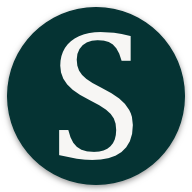
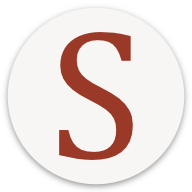
Publish

diff --git a/site/2014/08/new-homepage/index.html b/site/2014/08/new-homepage/index.html
@@ -16,13 +16,12 @@
   <link rel="stylesheet" href="http://olli.saarikivi.fi//css/content.css">
   <link rel="stylesheet" href="http://olli.saarikivi.fi//css/syntax.css">
 
-
   <link rel="apple-touch-icon" sizes="180x180" href="http://olli.saarikivi.fi/apple-touch-icon.png">
   <link rel="icon" type="image/png" href="http://olli.saarikivi.fi/favicon-32x32.png" sizes="32x32">
   <link rel="icon" type="image/png" href="http://olli.saarikivi.fi/favicon-16x16.png" sizes="16x16">
   <link rel="manifest" href="http://olli.saarikivi.fi/manifest.json">
-  <link rel="mask-icon" href="http://olli.saarikivi.fi/safari-pinned-tab.svg" color="#053333">
-  <meta name="theme-color" content="#f7f6f4">
+  <link rel="mask-icon" href="http://olli.saarikivi.fi/safari-pinned-tab.svg" color="#9b3928">
+  <meta name="theme-color" content="#9b3928">
 
   <link href="http://olli.saarikivi.fi/collections/posts/index.xml" rel="alternate" type="application/rss+xml" title="Olli Saarikivi" />
 </head>

diff --git a/site/404.html b/site/404.html
@@ -16,13 +16,12 @@
   <link rel="stylesheet" href="http://olli.saarikivi.fi//css/content.css">
   <link rel="stylesheet" href="http://olli.saarikivi.fi//css/syntax.css">
 
-
   <link rel="apple-touch-icon" sizes="180x180" href="http://olli.saarikivi.fi/apple-touch-icon.png">
   <link rel="icon" type="image/png" href="http://olli.saarikivi.fi/favicon-32x32.png" sizes="32x32">
   <link rel="icon" type="image/png" href="http://olli.saarikivi.fi/favicon-16x16.png" sizes="16x16">
   <link rel="manifest" href="http://olli.saarikivi.fi/manifest.json">
-  <link rel="mask-icon" href="http://olli.saarikivi.fi/safari-pinned-tab.svg" color="#053333">
-  <meta name="theme-color" content="#f7f6f4">
+  <link rel="mask-icon" href="http://olli.saarikivi.fi/safari-pinned-tab.svg" color="#9b3928">
+  <meta name="theme-color" content="#9b3928">
 
   <link href="http://olli.saarikivi.fi/collections/posts/index.xml" rel="alternate" type="application/rss+xml" title="Olli Saarikivi" />
 </head>

diff --git a/site/collections/frontpage/index.html b/site/collections/frontpage/index.html
@@ -16,13 +16,12 @@
   <link rel="stylesheet" href="http://olli.saarikivi.fi//css/content.css">
   <link rel="stylesheet" href="http://olli.saarikivi.fi//css/syntax.css">
 
-
   <link rel="apple-touch-icon" sizes="180x180" href="http://olli.saarikivi.fi/apple-touch-icon.png">
   <link rel="icon" type="image/png" href="http://olli.saarikivi.fi/favicon-32x32.png" sizes="32x32">
   <link rel="icon" type="image/png" href="http://olli.saarikivi.fi/favicon-16x16.png" sizes="16x16">
   <link rel="manifest" href="http://olli.saarikivi.fi/manifest.json">
-  <link rel="mask-icon" href="http://olli.saarikivi.fi/safari-pinned-tab.svg" color="#053333">
-  <meta name="theme-color" content="#f7f6f4">
+  <link rel="mask-icon" href="http://olli.saarikivi.fi/safari-pinned-tab.svg" color="#9b3928">
+  <meta name="theme-color" content="#9b3928">
 
   <link href="http://olli.saarikivi.fi/collections/posts/index.xml" rel="alternate" type="application/rss+xml" title="Olli Saarikivi" />
 </head>

diff --git a/site/collections/news/index.html b/site/collections/news/index.html
@@ -16,13 +16,12 @@
   <link rel="stylesheet" href="http://olli.saarikivi.fi//css/content.css">
   <link rel="stylesheet" href="http://olli.saarikivi.fi//css/syntax.css">
 
-
   <link rel="apple-touch-icon" sizes="180x180" href="http://olli.saarikivi.fi/apple-touch-icon.png">
   <link rel="icon" type="image/png" href="http://olli.saarikivi.fi/favicon-32x32.png" sizes="32x32">
   <link rel="icon" type="image/png" href="http://olli.saarikivi.fi/favicon-16x16.png" sizes="16x16">
   <link rel="manifest" href="http://olli.saarikivi.fi/manifest.json">
-  <link rel="mask-icon" href="http://olli.saarikivi.fi/safari-pinned-tab.svg" color="#053333">
-  <meta name="theme-color" content="#f7f6f4">
+  <link rel="mask-icon" href="http://olli.saarikivi.fi/safari-pinned-tab.svg" color="#9b3928">
+  <meta name="theme-color" content="#9b3928">
 
   <link href="http://olli.saarikivi.fi/collections/posts/index.xml" rel="alternate" type="application/rss+xml" title="Olli Saarikivi" />
 </head>

diff --git a/site/collections/posts/index.html b/site/collections/posts/index.html
@@ -16,13 +16,12 @@
   <link rel="stylesheet" href="http://olli.saarikivi.fi//css/content.css">
   <link rel="stylesheet" href="http://olli.saarikivi.fi//css/syntax.css">
 
-
   <link rel="apple-touch-icon" sizes="180x180" href="http://olli.saarikivi.fi/apple-touch-icon.png">
   <link rel="icon" type="image/png" href="http://olli.saarikivi.fi/favicon-32x32.png" sizes="32x32">
   <link rel="icon" type="image/png" href="http://olli.saarikivi.fi/favicon-16x16.png" sizes="16x16">
   <link rel="manifest" href="http://olli.saarikivi.fi/manifest.json">
-  <link rel="mask-icon" href="http://olli.saarikivi.fi/safari-pinned-tab.svg" color="#053333">
-  <meta name="theme-color" content="#f7f6f4">
+  <link rel="mask-icon" href="http://olli.saarikivi.fi/safari-pinned-tab.svg" color="#9b3928">
+  <meta name="theme-color" content="#9b3928">
 
   <link href="http://olli.saarikivi.fi/collections/posts/index.xml" rel="alternate" type="application/rss+xml" title="Olli Saarikivi" />
 </head>

diff --git a/site/cv/index.html b/site/cv/index.html
@@ -16,13 +16,12 @@
   <link rel="stylesheet" href="http://olli.saarikivi.fi//css/content.css">
   <link rel="stylesheet" href="http://olli.saarikivi.fi//css/syntax.css">
 
-
   <link rel="apple-touch-icon" sizes="180x180" href="http://olli.saarikivi.fi/apple-touch-icon.png">
   <link rel="icon" type="image/png" href="http://olli.saarikivi.fi/favicon-32x32.png" sizes="32x32">
   <link rel="icon" type="image/png" href="http://olli.saarikivi.fi/favicon-16x16.png" sizes="16x16">
   <link rel="manifest" href="http://olli.saarikivi.fi/manifest.json">
-  <link rel="mask-icon" href="http://olli.saarikivi.fi/safari-pinned-tab.svg" color="#053333">
-  <meta name="theme-color" content="#f7f6f4">
+  <link rel="mask-icon" href="http://olli.saarikivi.fi/safari-pinned-tab.svg" color="#9b3928">
+  <meta name="theme-color" content="#9b3928">
 
   <link href="http://olli.saarikivi.fi/collections/posts/index.xml" rel="alternate" type="application/rss+xml" title="Olli Saarikivi" />
 </head>

diff --git a/site/index.html b/site/index.html
@@ -17,13 +17,12 @@
   <link rel="stylesheet" href="http://olli.saarikivi.fi//css/content.css">
   <link rel="stylesheet" href="http://olli.saarikivi.fi//css/syntax.css">
 
-
   <link rel="apple-touch-icon" sizes="180x180" href="http://olli.saarikivi.fi/apple-touch-icon.png">
   <link rel="icon" type="image/png" href="http://olli.saarikivi.fi/favicon-32x32.png" sizes="32x32">
   <link rel="icon" type="image/png" href="http://olli.saarikivi.fi/favicon-16x16.png" sizes="16x16">
   <link rel="manifest" href="http://olli.saarikivi.fi/manifest.json">
-  <link rel="mask-icon" href="http://olli.saarikivi.fi/safari-pinned-tab.svg" color="#053333">
-  <meta name="theme-color" content="#f7f6f4">
+  <link rel="mask-icon" href="http://olli.saarikivi.fi/safari-pinned-tab.svg" color="#9b3928">
+  <meta name="theme-color" content="#9b3928">
 
   <link href="http://olli.saarikivi.fi/collections/posts/index.xml" rel="alternate" type="application/rss+xml" title="Olli Saarikivi" />
 </head>
